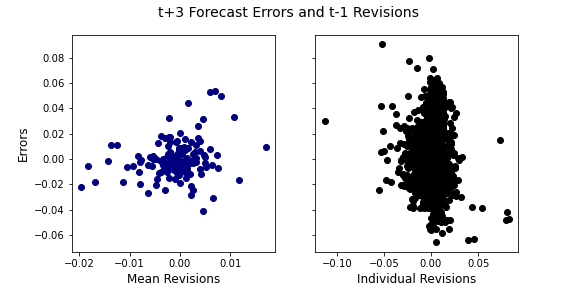
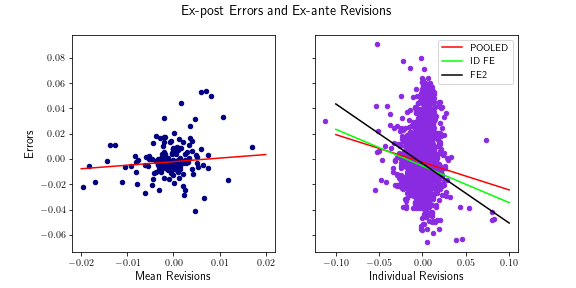
V 1.1.0
AR(1) estimation and plots
Parameter estimates

diff --git a/code/_004plots.py b/code/_004plots.py
@@ -1,0 +1,103 @@
+import os
+import pandas as pd
+import matplotlib.pyplot as plt
+import numpy as np
+
+os.chdir('/Users/fogellmcmuffin/Documents/thesis/_replication/')    # Working dir
+
+mean_spf_trim = pd.read_csv('cleaned_data/mean_spf_trim.csv')
+ind_spf_trim = pd.read_csv('cleaned_data/ind_spf_trim.csv')
+vintage_trim = pd.read_csv('cleaned_data/vintage_trim.csv')
+mean_estimations = pd.read_csv('output/mean_estimations.csv')
+ind_est_pld = pd.read_csv('output/ind_est_pld.csv')
+ind_est_fe = pd.read_csv('output/ind_est_fe.csv')
+ind_est_fe2 = pd.read_csv('output/ind_est_fe2.csv')
+ar_table = pd.read_csv('output/ar_estimations.csv')
+
+mean_spf_trim['DATE'] = pd.to_datetime(mean_spf_trim['Unnamed: 0'])
+mean_spf_trim = mean_spf_trim.drop(['Unnamed: 0'], axis=1)
+ind_spf_trim['DATE'] = pd.to_datetime(ind_spf_trim['Unnamed: 0'])
+ind_spf_trim = ind_spf_trim.drop(['Unnamed: 0'], axis=1)
+vintage_trim = vintage_trim.set_index(pd.to_datetime(vintage_trim['DATE']))
+
+###############################################
+            ## SCATTER PLOTS ##
+###############################################
+
+#####################
+ ## Rev & Errors ##
+#####################
+fig, (axm, axi) = plt.subplots(nrows=1, sharey=True, ncols=2, figsize=(8, 4))
+fig.suptitle('Ex-post Errors and Ex-ante Revisions', fontsize=14)
+
+### Mean ###
+xm = mean_spf_trim['r_t3'][1:]
+ym = mean_spf_trim['e_t3'][1:]
+
+axm.scatter(xm, ym, c='navy', alpha=1, s=20)
+model_m = mean_estimations.loc[0, 'coef_t3'] + mean_estimations.loc[1, 'coef_t3'] * np.linspace(-0.02, 0.02)
+axm.plot(np.linspace(-0.02, 0.02),  model_m, color='red', lw=1.5)
+
+axm.set_xlabel('Mean Revisions', fontsize=12)
+axm.set_ylabel('Errors', fontsize=12)
+
+### Individual ###
+xi = ind_spf_trim['r_t3']
+yi = ind_spf_trim['e_t3']
+model_p = ind_est_pld.loc[0, 'coef_t3'] + ind_est_pld.loc[1, 'coef_t3'] * np.linspace(-0.1, 0.1)
+model_fe = ind_est_fe.loc[0, 'coef_t3'] + ind_est_fe.loc[1, 'coef_t3'] * np.linspace(-0.1, 0.1)
+model_fe2 = ind_est_fe2.loc[0, 'coef_t3'] + ind_est_fe2.loc[1, 'coef_t3'] * np.linspace(-0.1, 0.1)
+
+axi.scatter(xi, yi, c='blueviolet', alpha=1, s=20)
+axi.plot(np.linspace(-0.1, 0.1), model_p, label='POOLED', color='red', lw=1.5)
+axi.plot(np.linspace(-0.1, 0.1), model_fe, label='ID FE', color='lime', lw=1.5)
+axi.plot(np.linspace(-0.1, 0.1), model_fe2, label='FE2', color='black', lw=1.5)
+
+axi.set_xlabel('Individual Revisions', fontsize=12)
+axi.legend()
+
+plt.show()
+fig.savefig('output/re_scat.png')
+
+
+#####################
+  ## Autoregg. ##
+#####################
+
+vintage_trim = vintage_trim.loc[(vintage_trim['DATE'] >= '1965-06-30') & (vintage_trim['DATE'] <= '2022-12-31')]
+vintage_trim = vintage_trim[['t0', 't1', 't2', 't3', 't4']]
+
+model0 = ar_table.loc[0, 'coef'] * np.linspace(-0.025, 0.150)
+
+fig, ((ax0, ax1), (ax2, ax3)) = plt.subplots(nrows=2, ncols=2, figsize=(10, 6), sharey=True,)
+fig.suptitle('Persistence', fontsize=14)
+
+ax0.scatter(vintage_trim['t0']['1965-09-30':], vintage_trim['t0'].shift(1)['1965-09-30':], c='blue', label='t = 1', alpha=1, s=20)
+ar_1 = ax0.plot(np.linspace(-0.025, 0.150), model0, color="red", lw=1.5, label='AR(1)')
+ax0.set_ylabel('Infl. (t-1)', fontsize=12)
+ax0.legend(['t = 1'])
+
+ax1.scatter(vintage_trim['t1']['1965-09-30':], vintage_trim['t1'].shift(1)['1965-09-30':], c='green', label='t = 2', alpha=1, s=20)
+ax1.plot(np.linspace(-0.025, 0.150), model0, color="red", lw=1.5)
+ax1.legend(['t = 2'])
+
+ax2.scatter(vintage_trim['t2']['1965-09-30':], vintage_trim['t2'].shift(1)['1965-09-30':], c='purple', label='t = 3', alpha=1, s=20)
+ax2.plot(np.linspace(-0.025, 0.150), model0, color="red", lw=1.5)
+ax2.set_ylabel('Infl. (t-1)', fontsize=12)
+ax2.set_xlabel('Infl. (t)', fontsize=12)
+ax2.legend(['t = 3'])
+
+ax3.scatter(vintage_trim['t3']['1965-09-30':], vintage_trim['t3'].shift(1)['1965-09-30':], c='black', label='t = 4', alpha=1, s=20)
+ax3.plot(np.linspace(-0.025, 0.150), model0, color="red", lw=1.5)
+ax3.set_xlabel('Infl. (t)', fontsize=12)
+ax3.legend(['t = 4'])
+
+fig.legend(handles=ar_1)
+plt.tight_layout()
+plt.show()
+fig.savefig('output/ar_scat.png')
+
+###############################################
+            ## LINE PLOTS ##
+###############################################
+

diff --git a/code/_003estimation.py b/code/_003estimation.py
@@ -5,6 +5,8 @@ import numpy as np
 
 os.chdir('/Users/fogellmcmuffin/Documents/thesis/_replication/')    # Working dir
 
+vintage_trim = pd.read_csv('cleaned_data/vintage_trim.csv')
+
 mean_spf_trim = pd.read_csv('cleaned_data/mean_spf_trim.csv')
 ind_spf_trim = pd.read_csv('cleaned_data/ind_spf_trim.csv')
 
@@ -22,7 +24,7 @@ ind_spf_trim = ind_spf_trim.drop(['Unnamed: 0'], axis=1)
 ## Mean Forecasts ##
 #####################
 
-mean_spf_trim = mean_spf_trim.loc[(mean_spf_trim['DATE'] >= '1981-12-31') & (mean_spf_trim['DATE'] <= '2023-03-31')]  # Filter data
+mean_spf_trim = mean_spf_trim.loc[(mean_spf_trim['DATE'] >= '1981-12-31') & (mean_spf_trim['DATE'] <= '2016-12-31')]  # Filter data
 
 def est_table(df):
     est_table = pd.DataFrame(index=['const', 'beta_1'])
@@ -46,7 +48,7 @@ mean_estimations = est_table(mean_spf_trim)
 #####################
 
 ### Pooled OLS ###
-ind_spf_trim = ind_spf_trim.loc[(ind_spf_trim['DATE'] >= '1981-12-31') & (ind_spf_trim['DATE'] <= '2023-03-31')]  # Filter data
+ind_spf_trim = ind_spf_trim.loc[(ind_spf_trim['DATE'] >= '1981-12-31') & (ind_spf_trim['DATE'] <= '2016-12-31')]  # Filter data
 
 ind_spf_trim = ind_spf_trim.dropna(subset='r_t1')
 ind_est_pld = est_table(ind_spf_trim)
@@ -85,6 +87,42 @@ def est_table_fe2(df):
 
 ind_est_fe2 = est_table_fe2(ind_spf_trim)
 
+#####################
+    ## AR(1) ##
+#####################
+
+vintage_trim = vintage_trim.loc[(vintage_trim['DATE'] >= '1965-06-30') & (vintage_trim['DATE'] <= '2016-12-31')]  # Filter data
+
+def ar_j(df):
+    ar_table = pd.DataFrame(index=['phi'])
+    grwth_t = df['t0'][2:]
+    grwth_t0 = df['t0'].shift(1)[2:]
+    reg = sm.OLS(grwth_t, grwth_t0).fit()
+    ar_table['coef'] = reg.params.iloc[0]
+    ar_table['std_err'] = reg.bse.iloc[0]
+    return ar_table
+
+ar_table = ar_j(vintage_trim)
+
+###############################################
+            ## MODEL PARAMETERS ##
+###############################################
+
+def params(dfm, dfp, dff, dff2, ar):
+    params = pd.DataFrame(index=['ols/pld', 'fe', 'fe2'])
+    params.loc['ols/pld', 'lambda'] = dfm.loc['beta_1', 'coef_t3'] / (1 + dfm.loc['beta_1', 'coef_t3'])
+    params.loc['ols/pld', 'G'] = 1 / (1 + dfm.loc['beta_1', 'coef_t3'])
+    pldc = dfp.iloc[1]['coef_t3']
+    fec = dff.iloc[1]['coef_t3']
+    fe2c = dff2.iloc[1]['coef_t3']
+    ar1 = ar.iloc[0]['coef']
+    params.loc['ols/pld', 'Theta'] = (-((2 * pldc) + 1) + np.sqrt(((2 * pldc) + 1)**2 - 4 * (pldc + (pldc * ar1**2) + 1) * pldc)) / (2 * (pldc + (pldc * ar1**2) + 1))
+    params.loc['fe', 'Theta'] = (-((2 * fec) + 1) + np.sqrt(((2 * fec) + 1)**2 - 4 * (fec + (fec * ar1**2) + 1) * fec)) / (2 * (fec + (fec * ar1**2) + 1))
+    params.loc['fe2', 'Theta'] = (-((2 * fe2c) + 1) + np.sqrt(((2 * fe2c) + 1)**2 - 4 * (fe2c + (fe2c * ar1**2) + 1) * fe2c)) / (2 * (fe2c + (fe2c * ar1**2) + 1))
+    return params
+
+parameters = params(mean_estimations, ind_est_pld, ind_est_fe, ind_est_fe2, ar_table)
+
 ###############################################
                 ## EXPORT ##
 ###############################################
@@ -93,3 +131,4 @@ mean_estimations.to_csv('output/mean_estimations.csv', sep=',', index=True)
 ind_est_pld.to_csv('output/ind_est_pld.csv', sep=',', index=True)
 ind_est_fe.to_csv('output/ind_est_fe.csv', sep=',', index=True)
 ind_est_fe2.to_csv('output/ind_est_fe2.csv', sep=',', index=True)
+ar_table.to_csv('output/ar_estimations.csv', sep=',', index=True)

diff --git a/code/_001cleaning.py b/code/_001cleaning.py
@@ -70,10 +70,11 @@ def actual_growth(df):
         df.loc[i, 't'] = vintage_trim.loc[i - pd.offsets.QuarterEnd(), column_name]
     
     for i in df.index[1:]:
-        for j in range(1, 6):
-            next_quarters = i + pd.offsets.QuarterEnd(j)
+        for j in range(0, 5):
+            next_quarters = i + pd.offsets.QuarterEnd(j+1)
             if next_quarters in df.index:
                 df.loc[i, f't{j}'] = ((df.loc[next_quarters, 't'] / df.loc[i, 't']) - 1)
+
 actual_growth(vintage_trim)
 
 ### Forecasts ###
@@ -117,7 +118,7 @@ revisions_ind(ind_spf_trim)
 def errors(df, v):
     for i in df.index:
         for j in range(0, 5):
-            df.loc[i, f'e_t{j}'] = v.loc[i, f't{j+1}'] - df.loc[i, f'f_t{j}']
+            df.loc[i, f'e_t{j}'] = v.loc[i, f't{j}'] - df.loc[i, f'f_t{j}']
 
 errors(mean_spf_trim, vintage_trim)
 
@@ -125,7 +126,7 @@ errors(mean_spf_trim, vintage_trim)
 def errors_ind(df, v):
     for d, i in df.index:
         for j in range(0, 5):
-            df.loc[(d, i), f'e_t{j}'] = v.loc[d, f't{j+1}'] - df.loc[(d, i), f'f_t{j}']
+            df.loc[(d, i), f'e_t{j}'] = v.loc[d, f't{j}'] - df.loc[(d, i), f'f_t{j}']
 
 errors_ind(ind_spf_trim, vintage_trim)
 

diff --git a/code/_002sumstats.py b/code/_002sumstats.py
@@ -17,7 +17,7 @@ ind_stats = pd.DataFrame()
                 ## SUM STATS ##
 ###############################################
 
-mean_spf_trim = mean_spf_trim[:'2016-12-31']  # Filter data
+mean_spf_trim = mean_spf_trim[:]  # Filter data
 
 def sum_stats(df, v):
     for j in range(4):
